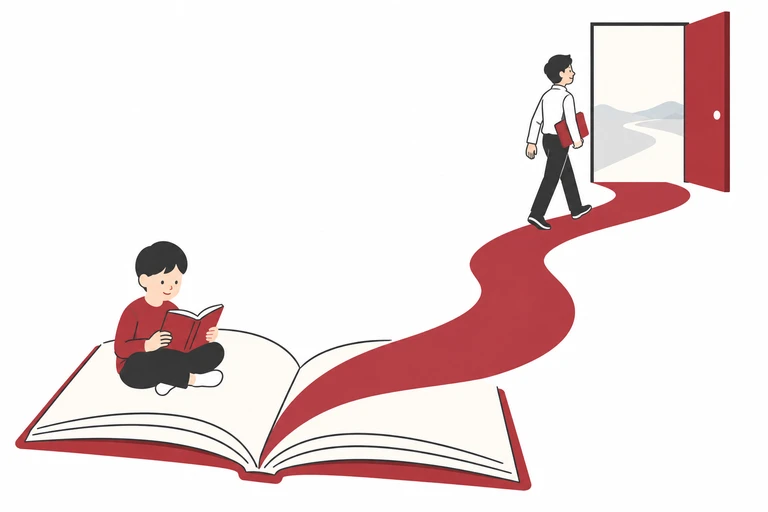
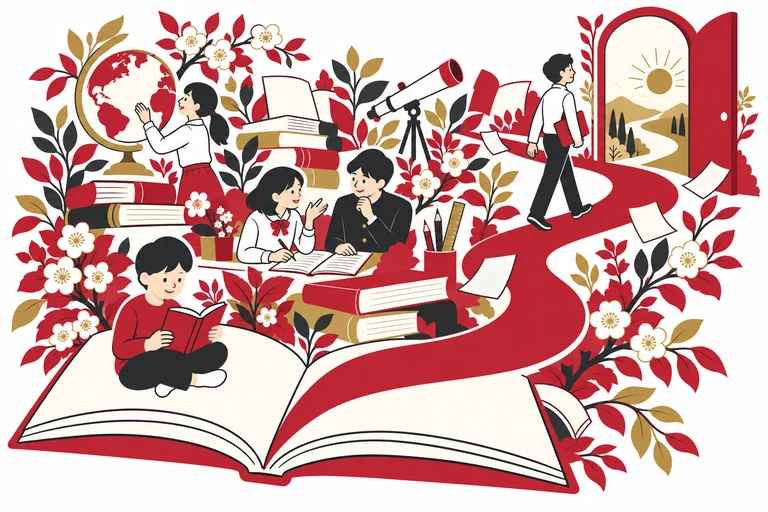
Publish richer flat hero from source 68b29c5

diff --git a/index.html b/index.html
@@ -1,1 +1,1 @@
-<!DOCTYPE html><html lang="ja"><head><meta charset="UTF-8"><meta name="viewport" content="width=device-width, initial-scale=1"><title>【確認用】時修学館｜学ぶ力を、未来を拓く力に。宇部市の学習塾</title><meta name="description" content="小学生から社会人まで。一人ひとりの目標に寄り添う、山口県宇部市の学習塾・時修学館。コース、教育理念、体験授業のご相談はこちら。"><meta name="robots" content="noindex,nofollow"><link rel="canonical" href="https://ymdsheep.github.io/jishugakkan-hp-preview/"><link rel="icon" type="image/png" href="/jishugakkan-hp-preview/images/original/lion.png"><meta property="og:type" content="website"><meta property="og:locale" content="ja_JP"><meta property="og:site_name" content="時修学館"><meta property="og:title" content="時修学館｜学ぶ力を、未来を拓く力に。宇部市の学習塾"><meta property="og:description" content="小学生から社会人まで。一人ひとりの目標に寄り添う、山口県宇部市の学習塾・時修学館。コース、教育理念、体験授業のご相談はこちら。"><meta property="og:url" content="https://ymdsheep.github.io/jishugakkan-hp-preview/"><meta property="og:image" content="https://ymdsheep.github.io/jishugakkan-hp-preview/images/illustrations/learning-future-hero.webp"><meta name="theme-color" content="#ffffff"><link rel="stylesheet" href="/jishugakkan-hp-preview/_astro/Base.BXC9BrSc.css"></head><body><aside class="preview-notice" aria-label="確認用サイトのお知らせ" data-astro-cid-wbbugfwp><strong data-astro-cid-wbbugfwp>デザイン確認用プレビュー</strong><span data-astro-cid-wbbugfwp>お問い合わせの送信はできません。</span></aside><a class="skip-link" href="#main">本文へ移動</a><header class="site-header"><div class="header-inner wrap"><a class="brand" href="/jishugakkan-hp-preview/" aria-label="時修学館 ホーム"><img src="/jishugakkan-hp-preview/images/original/lion.png" alt="" width="33" height="35"><span class="brand-name">時修学館</span><span class="brand-tag">進学応援校</span></a><nav class="desktop-nav" aria-label="メインナビゲーション"><a href="/jishugakkan-hp-preview/rinen.html">教育理念</a><a href="/jishugakkan-hp-preview/course.html">コース紹介</a><a href="/jishugakkan-hp-preview/koushi.html">講師より</a><a href="/jishugakkan-hp-preview/faq.html">よくある質問</a><a class="button" href="/jishugakkan-hp-preview/contact.html"><span>体験授業を相談する</span><svg class="icon" width="24" height="24" viewBox="0 0 24 24" fill="none" stroke="currentColor" stroke-width="1.6" stroke-linecap="round" stroke-linejoin="round" aria-hidden="true"><path d="M4 12h15m-6-6 6 6-6 6"></path></svg></a></nav><button type="button" class="menu-toggle" aria-label="メニューを開く" aria-controls="mobile-menu" aria-expanded="false"><span></span><span></span><span></span></button></div></header><dialog id="mobile-menu" aria-label="メニュー" class="mobile-menu"><div class="menu-head"><a class="brand brand--compact" href="/jishugakkan-hp-preview/" aria-label="時修学館 ホーム"><img src="/jishugakkan-hp-preview/images/original/lion.png" alt="" width="33" height="35"><span class="brand-name">時修学館</span><span class="brand-tag">進学応援校</span></a><button type="button" class="menu-close" aria-label="メニューを閉じる"><span aria-hidden="true">×</span><span>閉じる</span></button></div><nav aria-label="スマホナビゲーション"><a href="/jishugakkan-hp-preview/rinen.html">教育理念<svg class="icon" width="24" height="24" viewBox="0 0 24 24" fill="none" stroke="currentColor" stroke-width="1.6" stroke-linecap="round" stroke-linejoin="round" aria-hidden="true"><path d="M4 12h15m-6-6 6 6-6 6"></path></svg></a><a href="/jishugakkan-hp-preview/course.html">コース紹介<svg class="icon" width="24" height="24" viewBox="0 0 24 24" fill="none" stroke="currentColor" stroke-width="1.6" stroke-linecap="round" stroke-linejoin="round" aria-hidden="true"><path d="M4 12h15m-6-6 6 6-6 6"></path></svg></a><a href="/jishugakkan-hp-preview/koushi.html">講師より<svg class="icon" width="24" height="24" viewBox="0 0 24 24" fill="none" stroke="currentColor" stroke-width="1.6" stroke-linecap="round" stroke-linejoin="round" aria-hidden="true"><path d="M4 12h15m-6-6 6 6-6 6"></path></svg></a><a href="/jishugakkan-hp-preview/voice.html">塾生からの声<svg class="icon" width="24" height="24" viewBox="0 0 24 24" fill="none" stroke="currentColor" stroke-width="1.6" stroke-linecap="round" stroke-linejoin="round" aria-hidden="true"><path d="M4 12h15m-6-6 6 6-6 6"></path></svg></a><a href="/jishugakkan-hp-preview/faq.html">よくある質問<svg class="icon" width="24" height="24" viewBox="0 0 24 24" fill="none" stroke="currentColor" stroke-width="1.6" stroke-linecap="round" stroke-linejoin="round" aria-hidden="true"><path d="M4 12h15m-6-6 6 6-6 6"></path></svg></a><a href="/jishugakkan-hp-preview/map.html">アクセス<svg class="icon" width="24" height="24" viewBox="0 0 24 24" fill="none" stroke="currentColor" stroke-width="1.6" stroke-linecap="round" stroke-linejoin="round" aria-hidden="true"><path d="M4 12h15m-6-6 6 6-6 6"></path></svg></a><a href="http://blog.jisyuu-gakkan.com/" target="_blank" rel="noopener noreferrer">ブログ<svg class="icon" width="24" height="24" viewBox="0 0 24 24" fill="none" stroke="currentColor" stroke-width="1.6" stroke-linecap="round" stroke-linejoin="round" aria-hidden="true"><path d="M14 3h7v7M21 3l-11 11M10 3H4v17h17v-6"></path></svg></a></nav><a class="button" href="/jishugakkan-hp-preview/contact.html"><span>体験授業を相談する</span><svg class="icon" width="24" height="24" viewBox="0 0 24 24" fill="none" stroke="currentColor" stroke-width="1.6" stroke-linecap="round" stroke-linejoin="round" aria-hidden="true"><path d="M4 12h15m-6-6 6 6-6 6"></path></svg></a><a class="menu-phone" href="tel:0836331755">お電話でのご相談 <span>0836-33-1755</span></a></dialog><main id="main" tabindex="-1"><section class="hero" aria-labelledby="hero-heading"><div class="hero-inner wrap"><div class="hero-copy"><h1 id="hero-heading"><span>学ぶ力を、</span><span>未来を拓く力に。</span></h1><p class="hero-lead">小学生から社会人まで。<br>一人ひとりの目標に寄り添う、宇部市の学習塾。</p><div class="hero-actions"><a class="button" href="/jishugakkan-hp-preview/contact.html"><span>体験授業を相談する</span><svg class="icon" width="24" height="24" viewBox="0 0 24 24" fill="none" stroke="currentColor" stroke-width="1.6" stroke-linecap="round" stroke-linejoin="round" aria-hidden="true"><path d="M4 12h15m-6-6 6 6-6 6"></path></svg></a><a class="text-link" href="#courses"><span>コースを見る</span><svg class="icon" width="24" height="24" viewBox="0 0 24 24" fill="none" stroke="currentColor" stroke-width="1.6" stroke-linecap="round" stroke-linejoin="round" aria-hidden="true"><path d="M4 12h15m-6-6 6 6-6 6"></path></svg></a></div></div><img class="hero-art" src="/jishugakkan-hp-preview/images/illustrations/learning-future-hero.webp" srcset="/jishugakkan-hp-preview/images/illustrations/learning-future-hero-small.webp 768w, /jishugakkan-hp-preview/images/illustrations/learning-future-hero.webp 1536w" sizes="(max-width: 767px) calc(100vw - 48px), (max-width: 1023px) 600px, 48vw" width="1536" height="1024" loading="eager" fetchpriority="high" decoding="async" alt="開いた本から赤い道が未来の扉へ続き、学ぶ人が一歩を踏み出すイラスト"></div></section><section class="home-courses wrap" id="courses" aria-labelledby="courses-heading"><div class="section-intro"><h2 class="section-heading" id="courses-heading">それぞれの目標に、<br>それぞれの学び方を。</h2><p>時修学館は、子どもから大人まで、<br>一人ひとりの目標に合わせた学びの場を提供します。<br>確かな基礎力と、これからの未来につながる力を、<br>ともに育てていきます。</p></div><div class="course-index"><a href="/jishugakkan-hp-preview/course.html#elementary"><img src="/jishugakkan-hp-preview/images/illustrations/course-elementary.webp" alt="" width="112" height="76" loading="lazy"><span><strong>小学生</strong><small>学ぶ楽しさと、基礎を育てる。</small></span><svg class="icon" width="24" height="24" viewBox="0 0 24 24" fill="none" stroke="currentColor" stroke-width="1.6" stroke-linecap="round" stroke-linejoin="round" aria-hidden="true"><path d="M4 12h15m-6-6 6 6-6 6"></path></svg></a><a href="/jishugakkan-hp-preview/course.html#junior"><img src="/jishugakkan-hp-preview/images/illustrations/course-junior.webp" alt="" width="112" height="76" loading="lazy"><span><strong>中学生</strong><small>日々の理解から、志望校へ。</small></span><svg class="icon" width="24" height="24" viewBox="0 0 24 24" fill="none" stroke="currentColor" stroke-width="1.6" stroke-linecap="round" stroke-linejoin="round" aria-hidden="true"><path d="M4 12h15m-6-6 6 6-6 6"></path></svg></a><a href="/jishugakkan-hp-preview/course.html#senior"><img src="/jishugakkan-hp-preview/images/illustrations/course-senior.webp" alt="" width="112" height="76" loading="lazy"><span><strong>高校生</strong><small>その先の進路を、見据えて。</small></span><svg class="icon" width="24" height="24" viewBox="0 0 24 24" fill="none" stroke="currentColor" stroke-width="1.6" stroke-linecap="round" stroke-linejoin="round" aria-hidden="true"><path d="M4 12h15m-6-6 6 6-6 6"></path></svg></a><a href="/jishugakkan-hp-preview/course.html#adult"><img src="/jishugakkan-hp-preview/images/illustrations/course-adult.webp" alt="" width="112" height="76" loading="lazy"><span><strong>大学生・社会人</strong><small>次の挑戦を、ここから。</small></span><svg class="icon" width="24" height="24" viewBox="0 0 24 24" fill="none" stroke="currentColor" stroke-width="1.6" stroke-linecap="round" stroke-linejoin="round" aria-hidden="true"><path d="M4 12h15m-6-6 6 6-6 6"></path></svg></a></div></section><section class="philosophy" aria-labelledby="philosophy-heading"><div class="wrap"><div class="philosophy-top"><div class="section-intro"><h2 class="section-heading" id="philosophy-heading">ひとりの学びを、<br>みんなで支える。</h2><p>学校・家庭・塾。そのつながりの真ん中に、<br>一人ひとりの学びがあります。</p><a class="text-link text-link--light" href="/jishugakkan-hp-preview/rinen.html"><span>教育理念を読む</span><svg class="icon" width="24" height="24" viewBox="0 0 24 24" fill="none" stroke="currentColor" stroke-width="1.6" stroke-linecap="round" stroke-linejoin="round" aria-hidden="true"><path d="M4 12h15m-6-6 6 6-6 6"></path></svg></a></div><figure class="relationship" aria-label="生徒を中心に、学校・家庭・時修学館が協力して学びを支えます。"><svg viewBox="0 0 340 272" role="img" aria-labelledby="relationship-title"><title id="relationship-title">学校・家庭・塾が、生徒を中心に支え合う関係</title><path d="M170 34 44 238H296Z" fill="none" stroke="currentColor" stroke-width="1.2"></path><path d="M170 52v110M56 226l114-64 114 64" fill="none" stroke="currentColor" stroke-width="1" opacity=".7"></path><circle cx="170" cy="164" r="43" fill="var(--diagram-center,#fff)"></circle><text x="170" y="171" text-anchor="middle" class="diagram-student">生徒</text><text x="170" y="27" text-anchor="middle">学校</text><text x="29" y="260" text-anchor="middle">家庭</text><text x="304" y="260" text-anchor="middle">時修学館</text></svg></figure></div><div class="principles"><div><h3>信念</h3><p>学びの可能性を信じる。</p></div><div><h3>努力</h3><p>一歩ずつ、着実に進む。</p></div><div><h3>忍耐</h3><p>未来を見据えて、続ける。</p></div></div></div></section><section class="teacher-section wrap" aria-labelledby="teacher-heading"><div><h2 class="section-heading" id="teacher-heading">同じ目線で、<br>ともに考える。</h2><div class="teacher-message"><h3><span class="phrase">最初は、質問することも</span><span class="phrase">恥ずかしい。</span><br><span class="phrase">最後には、自ら進んで</span><span class="phrase">質問できる人に。</span></h3></div><p>分からないところから、一緒に考える。<br>その積み重ねを大切にしています。</p><a class="text-link" href="/jishugakkan-hp-preview/koushi.html"><span>講師の想いを読む</span><svg class="icon" width="24" height="24" viewBox="0 0 24 24" fill="none" stroke="currentColor" stroke-width="1.6" stroke-linecap="round" stroke-linejoin="round" aria-hidden="true"><path d="M4 12h15m-6-6 6 6-6 6"></path></svg></a></div><figure class="teacher-portrait"><img src="/jishugakkan-hp-preview/images/illustrations/muneto-portrait.webp" alt="時修学館 講師 宗東義則先生の似顔絵" width="768" height="768" loading="lazy"><figcaption><span>時修学館 講師</span><strong>宗東 義則</strong></figcaption></figure></section><section class="home-faq wrap" aria-labelledby="faq-heading"><div class="section-intro"><h2 class="section-heading" id="faq-heading">よくある質問</h2><p>疑問や不安に、<br>丁寧にお答えします。</p><a class="text-link" href="/jishugakkan-hp-preview/faq.html"><span>よくある質問をすべて見る</span><svg class="icon" width="24" height="24" viewBox="0 0 24 24" fill="none" stroke="currentColor" stroke-width="1.6" stroke-linecap="round" stroke-linejoin="round" aria-hidden="true"><path d="M4 12h15m-6-6 6 6-6 6"></path></svg></a></div><div class="faq-list"><details id="faq-trial" name="faq" open><summary>体験授業はできますか？<span class="faq-symbol" aria-hidden="true"></span></summary><div class="faq-answer"><p>体験授業は随時実施しています。塾や講師の雰囲気を、入塾前にお確かめください。ご希望の方はお気軽にお問い合わせください。</p></div></details><details id="faq-style" name="faq"><summary>どのような授業スタイルですか？<span class="faq-symbol" aria-hidden="true"></span></summary><div class="faq-answer"><p>基本的に個別指導形式です。内容によっては、ホワイトボードを使って授業を行います。</p></div></details><details id="faq-consultation" name="faq"><summary>個別面談や教育相談はありますか？<span class="faq-symbol" aria-hidden="true"></span></summary><div class="faq-answer"><p>必要に応じて随時行っています。また、学期末などにはこちらからもご連絡いたします。</p></div></details></div><a class="text-link" href="/jishugakkan-hp-preview/faq.html"><span>よくある質問をすべて見る</span><svg class="icon" width="24" height="24" viewBox="0 0 24 24" fill="none" stroke="currentColor" stroke-width="1.6" stroke-linecap="round" stroke-linejoin="round" aria-hidden="true"><path d="M4 12h15m-6-6 6 6-6 6"></path></svg></a></section><section class="access-band" aria-labelledby="access-heading"><div class="access-inner wrap"><div class="section-intro"><h2 class="section-heading" id="access-heading">時修学館へ。</h2><p>宇部市で、一人ひとりの学びを<br>応援しています。</p></div><div class="contact-details"><p><svg class="icon" width="24" height="24" viewBox="0 0 24 24" fill="none" stroke="currentColor" stroke-width="1.6" stroke-linecap="round" stroke-linejoin="round" aria-hidden="true"><path d="M20 10c0 6-8 12-8 12S4 16 4 10a8 8 0 1 1 16 0ZM15 10a3 3 0 1 1-6 0 3 3 0 0 1 6 0Z"></path></svg>山口県宇部市芝中町7-25-2F</p><a class="phone-link" href="tel:0836331755"><svg class="icon" width="24" height="24" viewBox="0 0 24 24" fill="none" stroke="currentColor" stroke-width="1.6" stroke-linecap="round" stroke-linejoin="round" aria-hidden="true"><path d="M5 3 2.8 5.2c-.9.9.6 6.5 5.6 11.5s10.6 6.5 11.5 5.6L22 20l-5-4-2.5 2c-2.4-1.2-6.3-5.1-7.5-7.5L9 8 5 3Z"></path></svg>0836-33-1755</a><a class="text-link" href="/jishugakkan-hp-preview/map.html"><span>アクセスを見る</span><svg class="icon" width="24" height="24" viewBox="0 0 24 24" fill="none" stroke="currentColor" stroke-width="1.6" stroke-linecap="round" stroke-linejoin="round" aria-hidden="true"><path d="M4 12h15m-6-6 6 6-6 6"></path></svg></a></div><img class="access-photo" src="/jishugakkan-hp-preview/images/original/building.jpg" alt="時修学館の看板と建物外観" width="300" height="400" loading="lazy"></div></section><section class="closing-cta closing-cta--strong" aria-labelledby="closing-heading"><div class="wrap closing-inner"><h2 id="closing-heading"><span>あなたの次の一歩を、</span><span>ここから。</span></h2><a class="button button--light" href="/jishugakkan-hp-preview/contact.html"><span>体験授業を相談する</span><svg class="icon" width="24" height="24" viewBox="0 0 24 24" fill="none" stroke="currentColor" stroke-width="1.6" stroke-linecap="round" stroke-linejoin="round" aria-hidden="true"><path d="M4 12h15m-6-6 6 6-6 6"></path></svg></a></div></section></main><footer class="site-footer wrap"><nav class="footer-nav" aria-label="フッターナビゲーション"><a href="/jishugakkan-hp-preview/rinen.html">教育理念</a><a href="/jishugakkan-hp-preview/course.html">コース紹介</a><a href="/jishugakkan-hp-preview/koushi.html">講師より</a><a href="/jishugakkan-hp-preview/voice.html">塾生からの声</a><a href="/jishugakkan-hp-preview/faq.html">よくある質問</a><a href="/jishugakkan-hp-preview/map.html">アクセス</a><a href="/jishugakkan-hp-preview/contact.html">お問い合わせ</a><a href="http://blog.jisyuu-gakkan.com/" target="_blank" rel="noopener noreferrer">ブログ<span class="sr-only">（新しいタブ）</span></a></nav><div class="footer-info"><a class="brand" href="/jishugakkan-hp-preview/" aria-label="時修学館 ホーム"><img src="/jishugakkan-hp-preview/images/original/lion.png" alt="" width="33" height="35"><span class="brand-name">時修学館</span><span class="brand-tag">進学応援校</span></a><p><svg class="icon" width="24" height="24" viewBox="0 0 24 24" fill="none" stroke="currentColor" stroke-width="1.6" stroke-linecap="round" stroke-linejoin="round" aria-hidden="true"><path d="M20 10c0 6-8 12-8 12S4 16 4 10a8 8 0 1 1 16 0ZM15 10a3 3 0 1 1-6 0 3 3 0 0 1 6 0Z"></path></svg>山口県宇部市芝中町7-25-2F</p><a class="footer-phone" href="tel:0836331755"><svg class="icon" width="24" height="24" viewBox="0 0 24 24" fill="none" stroke="currentColor" stroke-width="1.6" stroke-linecap="round" stroke-linejoin="round" aria-hidden="true"><path d="M5 3 2.8 5.2c-.9.9.6 6.5 5.6 11.5s10.6 6.5 11.5 5.6L22 20l-5-4-2.5 2c-2.4-1.2-6.3-5.1-7.5-7.5L9 8 5 3Z"></path></svg>0836-33-1755</a></div><p class="copyright">© 時修学館 All rights reserved.</p></footer><script type="module">var e=document.querySelector(`.menu-toggle`),t=document.querySelector(`#mobile-menu`);if(t&&e){let n=()=>t.close();e.addEventListener(`click`,()=>{t.showModal(),document.body.classList.add(`menu-open`),e.setAttribute(`aria-expanded`,`true`)}),t.querySelector(`.menu-close`)?.addEventListener(`click`,n),t.querySelectorAll(`a`).forEach(e=>e.addEventListener(`click`,n)),t.addEventListener(`close`,()=>{document.body.classList.remove(`menu-open`),e.setAttribute(`aria-expanded`,`false`),e.focus()}),t.addEventListener(`click`,e=>{if(e.target===t){let r=t.getBoundingClientRect();(e.clientX<r.left||e.clientX>r.right)&&n()}}),window.matchMedia(`(min-width: 1024px)`).addEventListener(`change`,e=>{e.matches&&t.open&&n()})}var n=document.querySelector(`#contact-form`);if(n){let e=n.querySelector(`button[type="submit"]`),t=n.dataset.liveEnabled===`true`&&[`jisyuu-gakkan.com`,`www.jisyuu-gakkan.com`].includes(window.location.hostname),r=n.querySelector(`[data-preview-note]`),i=n.querySelector(`.form-status`),a=n.querySelector(`.form-summary`),o=Array.from(n.querySelectorAll(`input:not([type="hidden"]):not([type="radio"]),textarea`)),s={name:`お名前`,school:`学校名・学年`,email:`メールアドレス`,message:`お問い合わせ内容`,phone:`お電話番号`};t&&(n.action=n.dataset.liveAction),r.hidden=t,e.disabled=!1;let c=e=>{let t=``;e.required&&!e.value.trim()?t=`${s[e.id]}を入力してください。`:e.validity.valid||(t=e.id===`email`?`メールアドレスの形式をご確認ください。`:`入力内容をご確認ください。`),e.setAttribute(`aria-invalid`,String(!!t));let n=document.getElementById(e.id+`-error`);return n&&(n.textContent=t,n.hidden=!t),!t};o.forEach(e=>e.addEventListener(`input`,()=>{e.getAttribute(`aria-invalid`)===`true`&&c(e),i.hidden=!0})),n.addEventListener(`submit`,n=>{let r=o.filter(e=>!c(e));if(a.hidden=!r.length,i.hidden=!0,r.length){n.preventDefault(),r[0].focus();return}if(!t){n.preventDefault(),i.hidden=!1,i.focus();return}e.disabled=!0,e.querySelector(`span`).textContent=`送信しています…`}),window.addEventListener(`pageshow`,()=>{e.disabled=!1,e.querySelector(`span`).textContent=`送信する`})}</script></body></html>
+<!DOCTYPE html><html lang="ja"><head><meta charset="UTF-8"><meta name="viewport" content="width=device-width, initial-scale=1"><title>【確認用】時修学館｜学ぶ力を、未来を拓く力に。宇部市の学習塾</title><meta name="description" content="小学生から社会人まで。一人ひとりの目標に寄り添う、山口県宇部市の学習塾・時修学館。コース、教育理念、体験授業のご相談はこちら。"><meta name="robots" content="noindex,nofollow"><link rel="canonical" href="https://ymdsheep.github.io/jishugakkan-hp-preview/"><link rel="icon" type="image/png" href="/jishugakkan-hp-preview/images/original/lion.png"><meta property="og:type" content="website"><meta property="og:locale" content="ja_JP"><meta property="og:site_name" content="時修学館"><meta property="og:title" content="時修学館｜学ぶ力を、未来を拓く力に。宇部市の学習塾"><meta property="og:description" content="小学生から社会人まで。一人ひとりの目標に寄り添う、山口県宇部市の学習塾・時修学館。コース、教育理念、体験授業のご相談はこちら。"><meta property="og:url" content="https://ymdsheep.github.io/jishugakkan-hp-preview/"><meta property="og:image" content="https://ymdsheep.github.io/jishugakkan-hp-preview/images/illustrations/learning-future-hero.webp"><meta name="theme-color" content="#ffffff"><link rel="stylesheet" href="/jishugakkan-hp-preview/_astro/Base.BXC9BrSc.css"></head><body><aside class="preview-notice" aria-label="確認用サイトのお知らせ" data-astro-cid-wbbugfwp><strong data-astro-cid-wbbugfwp>デザイン確認用プレビュー</strong><span data-astro-cid-wbbugfwp>お問い合わせの送信はできません。</span></aside><a class="skip-link" href="#main">本文へ移動</a><header class="site-header"><div class="header-inner wrap"><a class="brand" href="/jishugakkan-hp-preview/" aria-label="時修学館 ホーム"><img src="/jishugakkan-hp-preview/images/original/lion.png" alt="" width="33" height="35"><span class="brand-name">時修学館</span><span class="brand-tag">進学応援校</span></a><nav class="desktop-nav" aria-label="メインナビゲーション"><a href="/jishugakkan-hp-preview/rinen.html">教育理念</a><a href="/jishugakkan-hp-preview/course.html">コース紹介</a><a href="/jishugakkan-hp-preview/koushi.html">講師より</a><a href="/jishugakkan-hp-preview/faq.html">よくある質問</a><a class="button" href="/jishugakkan-hp-preview/contact.html"><span>体験授業を相談する</span><svg class="icon" width="24" height="24" viewBox="0 0 24 24" fill="none" stroke="currentColor" stroke-width="1.6" stroke-linecap="round" stroke-linejoin="round" aria-hidden="true"><path d="M4 12h15m-6-6 6 6-6 6"></path></svg></a></nav><button type="button" class="menu-toggle" aria-label="メニューを開く" aria-controls="mobile-menu" aria-expanded="false"><span></span><span></span><span></span></button></div></header><dialog id="mobile-menu" aria-label="メニュー" class="mobile-menu"><div class="menu-head"><a class="brand brand--compact" href="/jishugakkan-hp-preview/" aria-label="時修学館 ホーム"><img src="/jishugakkan-hp-preview/images/original/lion.png" alt="" width="33" height="35"><span class="brand-name">時修学館</span><span class="brand-tag">進学応援校</span></a><button type="button" class="menu-close" aria-label="メニューを閉じる"><span aria-hidden="true">×</span><span>閉じる</span></button></div><nav aria-label="スマホナビゲーション"><a href="/jishugakkan-hp-preview/rinen.html">教育理念<svg class="icon" width="24" height="24" viewBox="0 0 24 24" fill="none" stroke="currentColor" stroke-width="1.6" stroke-linecap="round" stroke-linejoin="round" aria-hidden="true"><path d="M4 12h15m-6-6 6 6-6 6"></path></svg></a><a href="/jishugakkan-hp-preview/course.html">コース紹介<svg class="icon" width="24" height="24" viewBox="0 0 24 24" fill="none" stroke="currentColor" stroke-width="1.6" stroke-linecap="round" stroke-linejoin="round" aria-hidden="true"><path d="M4 12h15m-6-6 6 6-6 6"></path></svg></a><a href="/jishugakkan-hp-preview/koushi.html">講師より<svg class="icon" width="24" height="24" viewBox="0 0 24 24" fill="none" stroke="currentColor" stroke-width="1.6" stroke-linecap="round" stroke-linejoin="round" aria-hidden="true"><path d="M4 12h15m-6-6 6 6-6 6"></path></svg></a><a href="/jishugakkan-hp-preview/voice.html">塾生からの声<svg class="icon" width="24" height="24" viewBox="0 0 24 24" fill="none" stroke="currentColor" stroke-width="1.6" stroke-linecap="round" stroke-linejoin="round" aria-hidden="true"><path d="M4 12h15m-6-6 6 6-6 6"></path></svg></a><a href="/jishugakkan-hp-preview/faq.html">よくある質問<svg class="icon" width="24" height="24" viewBox="0 0 24 24" fill="none" stroke="currentColor" stroke-width="1.6" stroke-linecap="round" stroke-linejoin="round" aria-hidden="true"><path d="M4 12h15m-6-6 6 6-6 6"></path></svg></a><a href="/jishugakkan-hp-preview/map.html">アクセス<svg class="icon" width="24" height="24" viewBox="0 0 24 24" fill="none" stroke="currentColor" stroke-width="1.6" stroke-linecap="round" stroke-linejoin="round" aria-hidden="true"><path d="M4 12h15m-6-6 6 6-6 6"></path></svg></a><a href="http://blog.jisyuu-gakkan.com/" target="_blank" rel="noopener noreferrer">ブログ<svg class="icon" width="24" height="24" viewBox="0 0 24 24" fill="none" stroke="currentColor" stroke-width="1.6" stroke-linecap="round" stroke-linejoin="round" aria-hidden="true"><path d="M14 3h7v7M21 3l-11 11M10 3H4v17h17v-6"></path></svg></a></nav><a class="button" href="/jishugakkan-hp-preview/contact.html"><span>体験授業を相談する</span><svg class="icon" width="24" height="24" viewBox="0 0 24 24" fill="none" stroke="currentColor" stroke-width="1.6" stroke-linecap="round" stroke-linejoin="round" aria-hidden="true"><path d="M4 12h15m-6-6 6 6-6 6"></path></svg></a><a class="menu-phone" href="tel:0836331755">お電話でのご相談 <span>0836-33-1755</span></a></dialog><main id="main" tabindex="-1"><section class="hero" aria-labelledby="hero-heading"><div class="hero-inner wrap"><div class="hero-copy"><h1 id="hero-heading"><span>学ぶ力を、</span><span>未来を拓く力に。</span></h1><p class="hero-lead">小学生から社会人まで。<br>一人ひとりの目標に寄り添う、宇部市の学習塾。</p><div class="hero-actions"><a class="button" href="/jishugakkan-hp-preview/contact.html"><span>体験授業を相談する</span><svg class="icon" width="24" height="24" viewBox="0 0 24 24" fill="none" stroke="currentColor" stroke-width="1.6" stroke-linecap="round" stroke-linejoin="round" aria-hidden="true"><path d="M4 12h15m-6-6 6 6-6 6"></path></svg></a><a class="text-link" href="#courses"><span>コースを見る</span><svg class="icon" width="24" height="24" viewBox="0 0 24 24" fill="none" stroke="currentColor" stroke-width="1.6" stroke-linecap="round" stroke-linejoin="round" aria-hidden="true"><path d="M4 12h15m-6-6 6 6-6 6"></path></svg></a></div></div><img class="hero-art" src="/jishugakkan-hp-preview/images/illustrations/learning-future-hero.webp" srcset="/jishugakkan-hp-preview/images/illustrations/learning-future-hero-small.webp 768w, /jishugakkan-hp-preview/images/illustrations/learning-future-hero.webp 1536w" sizes="(max-width: 767px) calc(100vw - 48px), (max-width: 1023px) 600px, 48vw" width="1536" height="1024" loading="eager" fetchpriority="high" decoding="async" alt="大きな本のまわりに読書・対話・探究をする人々が集い、赤い道が未来の扉へ続くイラスト"></div></section><section class="home-courses wrap" id="courses" aria-labelledby="courses-heading"><div class="section-intro"><h2 class="section-heading" id="courses-heading">それぞれの目標に、<br>それぞれの学び方を。</h2><p>時修学館は、子どもから大人まで、<br>一人ひとりの目標に合わせた学びの場を提供します。<br>確かな基礎力と、これからの未来につながる力を、<br>ともに育てていきます。</p></div><div class="course-index"><a href="/jishugakkan-hp-preview/course.html#elementary"><img src="/jishugakkan-hp-preview/images/illustrations/course-elementary.webp" alt="" width="112" height="76" loading="lazy"><span><strong>小学生</strong><small>学ぶ楽しさと、基礎を育てる。</small></span><svg class="icon" width="24" height="24" viewBox="0 0 24 24" fill="none" stroke="currentColor" stroke-width="1.6" stroke-linecap="round" stroke-linejoin="round" aria-hidden="true"><path d="M4 12h15m-6-6 6 6-6 6"></path></svg></a><a href="/jishugakkan-hp-preview/course.html#junior"><img src="/jishugakkan-hp-preview/images/illustrations/course-junior.webp" alt="" width="112" height="76" loading="lazy"><span><strong>中学生</strong><small>日々の理解から、志望校へ。</small></span><svg class="icon" width="24" height="24" viewBox="0 0 24 24" fill="none" stroke="currentColor" stroke-width="1.6" stroke-linecap="round" stroke-linejoin="round" aria-hidden="true"><path d="M4 12h15m-6-6 6 6-6 6"></path></svg></a><a href="/jishugakkan-hp-preview/course.html#senior"><img src="/jishugakkan-hp-preview/images/illustrations/course-senior.webp" alt="" width="112" height="76" loading="lazy"><span><strong>高校生</strong><small>その先の進路を、見据えて。</small></span><svg class="icon" width="24" height="24" viewBox="0 0 24 24" fill="none" stroke="currentColor" stroke-width="1.6" stroke-linecap="round" stroke-linejoin="round" aria-hidden="true"><path d="M4 12h15m-6-6 6 6-6 6"></path></svg></a><a href="/jishugakkan-hp-preview/course.html#adult"><img src="/jishugakkan-hp-preview/images/illustrations/course-adult.webp" alt="" width="112" height="76" loading="lazy"><span><strong>大学生・社会人</strong><small>次の挑戦を、ここから。</small></span><svg class="icon" width="24" height="24" viewBox="0 0 24 24" fill="none" stroke="currentColor" stroke-width="1.6" stroke-linecap="round" stroke-linejoin="round" aria-hidden="true"><path d="M4 12h15m-6-6 6 6-6 6"></path></svg></a></div></section><section class="philosophy" aria-labelledby="philosophy-heading"><div class="wrap"><div class="philosophy-top"><div class="section-intro"><h2 class="section-heading" id="philosophy-heading">ひとりの学びを、<br>みんなで支える。</h2><p>学校・家庭・塾。そのつながりの真ん中に、<br>一人ひとりの学びがあります。</p><a class="text-link text-link--light" href="/jishugakkan-hp-preview/rinen.html"><span>教育理念を読む</span><svg class="icon" width="24" height="24" viewBox="0 0 24 24" fill="none" stroke="currentColor" stroke-width="1.6" stroke-linecap="round" stroke-linejoin="round" aria-hidden="true"><path d="M4 12h15m-6-6 6 6-6 6"></path></svg></a></div><figure class="relationship" aria-label="生徒を中心に、学校・家庭・時修学館が協力して学びを支えます。"><svg viewBox="0 0 340 272" role="img" aria-labelledby="relationship-title"><title id="relationship-title">学校・家庭・塾が、生徒を中心に支え合う関係</title><path d="M170 34 44 238H296Z" fill="none" stroke="currentColor" stroke-width="1.2"></path><path d="M170 52v110M56 226l114-64 114 64" fill="none" stroke="currentColor" stroke-width="1" opacity=".7"></path><circle cx="170" cy="164" r="43" fill="var(--diagram-center,#fff)"></circle><text x="170" y="171" text-anchor="middle" class="diagram-student">生徒</text><text x="170" y="27" text-anchor="middle">学校</text><text x="29" y="260" text-anchor="middle">家庭</text><text x="304" y="260" text-anchor="middle">時修学館</text></svg></figure></div><div class="principles"><div><h3>信念</h3><p>学びの可能性を信じる。</p></div><div><h3>努力</h3><p>一歩ずつ、着実に進む。</p></div><div><h3>忍耐</h3><p>未来を見据えて、続ける。</p></div></div></div></section><section class="teacher-section wrap" aria-labelledby="teacher-heading"><div><h2 class="section-heading" id="teacher-heading">同じ目線で、<br>ともに考える。</h2><div class="teacher-message"><h3><span class="phrase">最初は、質問することも</span><span class="phrase">恥ずかしい。</span><br><span class="phrase">最後には、自ら進んで</span><span class="phrase">質問できる人に。</span></h3></div><p>分からないところから、一緒に考える。<br>その積み重ねを大切にしています。</p><a class="text-link" href="/jishugakkan-hp-preview/koushi.html"><span>講師の想いを読む</span><svg class="icon" width="24" height="24" viewBox="0 0 24 24" fill="none" stroke="currentColor" stroke-width="1.6" stroke-linecap="round" stroke-linejoin="round" aria-hidden="true"><path d="M4 12h15m-6-6 6 6-6 6"></path></svg></a></div><figure class="teacher-portrait"><img src="/jishugakkan-hp-preview/images/illustrations/muneto-portrait.webp" alt="時修学館 講師 宗東義則先生の似顔絵" width="768" height="768" loading="lazy"><figcaption><span>時修学館 講師</span><strong>宗東 義則</strong></figcaption></figure></section><section class="home-faq wrap" aria-labelledby="faq-heading"><div class="section-intro"><h2 class="section-heading" id="faq-heading">よくある質問</h2><p>疑問や不安に、<br>丁寧にお答えします。</p><a class="text-link" href="/jishugakkan-hp-preview/faq.html"><span>よくある質問をすべて見る</span><svg class="icon" width="24" height="24" viewBox="0 0 24 24" fill="none" stroke="currentColor" stroke-width="1.6" stroke-linecap="round" stroke-linejoin="round" aria-hidden="true"><path d="M4 12h15m-6-6 6 6-6 6"></path></svg></a></div><div class="faq-list"><details id="faq-trial" name="faq" open><summary>体験授業はできますか？<span class="faq-symbol" aria-hidden="true"></span></summary><div class="faq-answer"><p>体験授業は随時実施しています。塾や講師の雰囲気を、入塾前にお確かめください。ご希望の方はお気軽にお問い合わせください。</p></div></details><details id="faq-style" name="faq"><summary>どのような授業スタイルですか？<span class="faq-symbol" aria-hidden="true"></span></summary><div class="faq-answer"><p>基本的に個別指導形式です。内容によっては、ホワイトボードを使って授業を行います。</p></div></details><details id="faq-consultation" name="faq"><summary>個別面談や教育相談はありますか？<span class="faq-symbol" aria-hidden="true"></span></summary><div class="faq-answer"><p>必要に応じて随時行っています。また、学期末などにはこちらからもご連絡いたします。</p></div></details></div><a class="text-link" href="/jishugakkan-hp-preview/faq.html"><span>よくある質問をすべて見る</span><svg class="icon" width="24" height="24" viewBox="0 0 24 24" fill="none" stroke="currentColor" stroke-width="1.6" stroke-linecap="round" stroke-linejoin="round" aria-hidden="true"><path d="M4 12h15m-6-6 6 6-6 6"></path></svg></a></section><section class="access-band" aria-labelledby="access-heading"><div class="access-inner wrap"><div class="section-intro"><h2 class="section-heading" id="access-heading">時修学館へ。</h2><p>宇部市で、一人ひとりの学びを<br>応援しています。</p></div><div class="contact-details"><p><svg class="icon" width="24" height="24" viewBox="0 0 24 24" fill="none" stroke="currentColor" stroke-width="1.6" stroke-linecap="round" stroke-linejoin="round" aria-hidden="true"><path d="M20 10c0 6-8 12-8 12S4 16 4 10a8 8 0 1 1 16 0ZM15 10a3 3 0 1 1-6 0 3 3 0 0 1 6 0Z"></path></svg>山口県宇部市芝中町7-25-2F</p><a class="phone-link" href="tel:0836331755"><svg class="icon" width="24" height="24" viewBox="0 0 24 24" fill="none" stroke="currentColor" stroke-width="1.6" stroke-linecap="round" stroke-linejoin="round" aria-hidden="true"><path d="M5 3 2.8 5.2c-.9.9.6 6.5 5.6 11.5s10.6 6.5 11.5 5.6L22 20l-5-4-2.5 2c-2.4-1.2-6.3-5.1-7.5-7.5L9 8 5 3Z"></path></svg>0836-33-1755</a><a class="text-link" href="/jishugakkan-hp-preview/map.html"><span>アクセスを見る</span><svg class="icon" width="24" height="24" viewBox="0 0 24 24" fill="none" stroke="currentColor" stroke-width="1.6" stroke-linecap="round" stroke-linejoin="round" aria-hidden="true"><path d="M4 12h15m-6-6 6 6-6 6"></path></svg></a></div><img class="access-photo" src="/jishugakkan-hp-preview/images/original/building.jpg" alt="時修学館の看板と建物外観" width="300" height="400" loading="lazy"></div></section><section class="closing-cta closing-cta--strong" aria-labelledby="closing-heading"><div class="wrap closing-inner"><h2 id="closing-heading"><span>あなたの次の一歩を、</span><span>ここから。</span></h2><a class="button button--light" href="/jishugakkan-hp-preview/contact.html"><span>体験授業を相談する</span><svg class="icon" width="24" height="24" viewBox="0 0 24 24" fill="none" stroke="currentColor" stroke-width="1.6" stroke-linecap="round" stroke-linejoin="round" aria-hidden="true"><path d="M4 12h15m-6-6 6 6-6 6"></path></svg></a></div></section></main><footer class="site-footer wrap"><nav class="footer-nav" aria-label="フッターナビゲーション"><a href="/jishugakkan-hp-preview/rinen.html">教育理念</a><a href="/jishugakkan-hp-preview/course.html">コース紹介</a><a href="/jishugakkan-hp-preview/koushi.html">講師より</a><a href="/jishugakkan-hp-preview/voice.html">塾生からの声</a><a href="/jishugakkan-hp-preview/faq.html">よくある質問</a><a href="/jishugakkan-hp-preview/map.html">アクセス</a><a href="/jishugakkan-hp-preview/contact.html">お問い合わせ</a><a href="http://blog.jisyuu-gakkan.com/" target="_blank" rel="noopener noreferrer">ブログ<span class="sr-only">（新しいタブ）</span></a></nav><div class="footer-info"><a class="brand" href="/jishugakkan-hp-preview/" aria-label="時修学館 ホーム"><img src="/jishugakkan-hp-preview/images/original/lion.png" alt="" width="33" height="35"><span class="brand-name">時修学館</span><span class="brand-tag">進学応援校</span></a><p><svg class="icon" width="24" height="24" viewBox="0 0 24 24" fill="none" stroke="currentColor" stroke-width="1.6" stroke-linecap="round" stroke-linejoin="round" aria-hidden="true"><path d="M20 10c0 6-8 12-8 12S4 16 4 10a8 8 0 1 1 16 0ZM15 10a3 3 0 1 1-6 0 3 3 0 0 1 6 0Z"></path></svg>山口県宇部市芝中町7-25-2F</p><a class="footer-phone" href="tel:0836331755"><svg class="icon" width="24" height="24" viewBox="0 0 24 24" fill="none" stroke="currentColor" stroke-width="1.6" stroke-linecap="round" stroke-linejoin="round" aria-hidden="true"><path d="M5 3 2.8 5.2c-.9.9.6 6.5 5.6 11.5s10.6 6.5 11.5 5.6L22 20l-5-4-2.5 2c-2.4-1.2-6.3-5.1-7.5-7.5L9 8 5 3Z"></path></svg>0836-33-1755</a></div><p class="copyright">© 時修学館 All rights reserved.</p></footer><script type="module">var e=document.querySelector(`.menu-toggle`),t=document.querySelector(`#mobile-menu`);if(t&&e){let n=()=>t.close();e.addEventListener(`click`,()=>{t.showModal(),document.body.classList.add(`menu-open`),e.setAttribute(`aria-expanded`,`true`)}),t.querySelector(`.menu-close`)?.addEventListener(`click`,n),t.querySelectorAll(`a`).forEach(e=>e.addEventListener(`click`,n)),t.addEventListener(`close`,()=>{document.body.classList.remove(`menu-open`),e.setAttribute(`aria-expanded`,`false`),e.focus()}),t.addEventListener(`click`,e=>{if(e.target===t){let r=t.getBoundingClientRect();(e.clientX<r.left||e.clientX>r.right)&&n()}}),window.matchMedia(`(min-width: 1024px)`).addEventListener(`change`,e=>{e.matches&&t.open&&n()})}var n=document.querySelector(`#contact-form`);if(n){let e=n.querySelector(`button[type="submit"]`),t=n.dataset.liveEnabled===`true`&&[`jisyuu-gakkan.com`,`www.jisyuu-gakkan.com`].includes(window.location.hostname),r=n.querySelector(`[data-preview-note]`),i=n.querySelector(`.form-status`),a=n.querySelector(`.form-summary`),o=Array.from(n.querySelectorAll(`input:not([type="hidden"]):not([type="radio"]),textarea`)),s={name:`お名前`,school:`学校名・学年`,email:`メールアドレス`,message:`お問い合わせ内容`,phone:`お電話番号`};t&&(n.action=n.dataset.liveAction),r.hidden=t,e.disabled=!1;let c=e=>{let t=``;e.required&&!e.value.trim()?t=`${s[e.id]}を入力してください。`:e.validity.valid||(t=e.id===`email`?`メールアドレスの形式をご確認ください。`:`入力内容をご確認ください。`),e.setAttribute(`aria-invalid`,String(!!t));let n=document.getElementById(e.id+`-error`);return n&&(n.textContent=t,n.hidden=!t),!t};o.forEach(e=>e.addEventListener(`input`,()=>{e.getAttribute(`aria-invalid`)===`true`&&c(e),i.hidden=!0})),n.addEventListener(`submit`,n=>{let r=o.filter(e=>!c(e));if(a.hidden=!r.length,i.hidden=!0,r.length){n.preventDefault(),r[0].focus();return}if(!t){n.preventDefault(),i.hidden=!1,i.focus();return}e.disabled=!0,e.querySelector(`span`).textContent=`送信しています…`}),window.addEventListener(`pageshow`,()=>{e.disabled=!1,e.querySelector(`span`).textContent=`送信する`})}</script></body></html>
